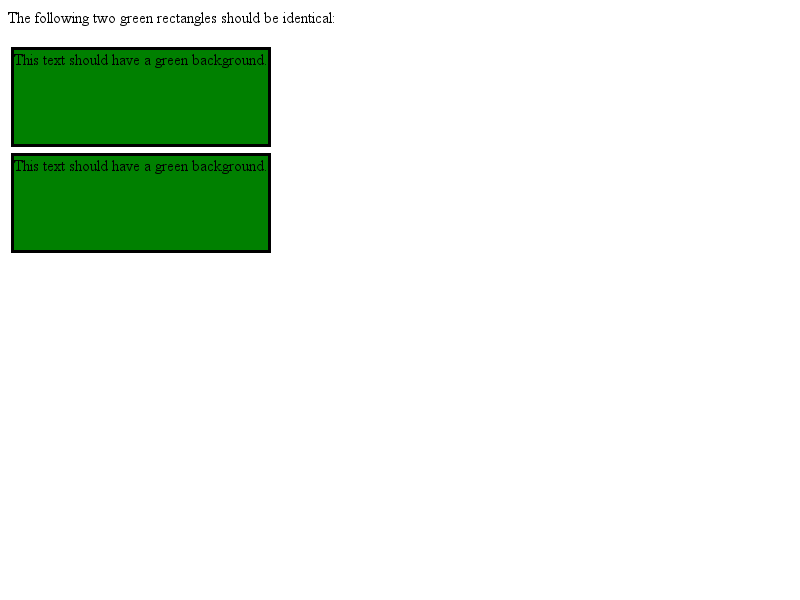
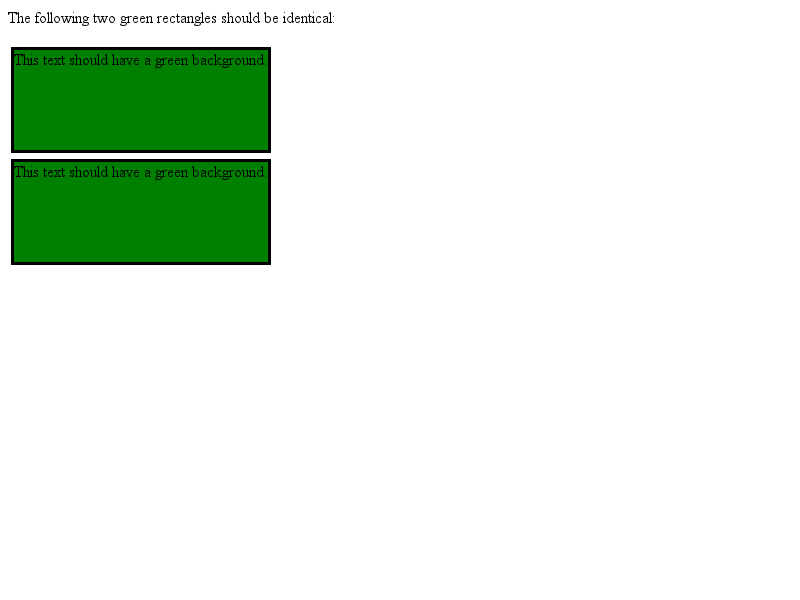
Calculate border-box dimensions correctly for cells
When constraining a height on a cell according to box sizing we need to exclude the intrinsic
padding on table cells (calculated to line up the content of the cells with the
baseline of its neighbours) but include any collapsed borders the cells have
picked up from the row/table.

BUG=627305

Review-Url: https://codereview.chromium.org/2148513002
Cr-Original-Commit-Position: refs/heads/master@{#406775}
Cr-Mirrored-From: https://chromium.googlesource.com/chromium/src
Cr-Mirrored-Commit: 1da432b8b1e60df27ed36d2a6439392d2048551e

Changed region(s): [[0.0, 0.24, 0.3438, 0.3], [0.0, 0.39, 0.3438, 0.45]]

diff --git a/WebKit/LayoutTests/fast/table/percent-height-content-in-fixed-height-border-box-sized-cell.html b/WebKit/LayoutTests/fast/table/percent-height-content-in-fixed-height-border-box-sized-cell.html
@@ -1,0 +1,24 @@
+<!DOCTYPE html>
+<style>
+td {
+    width: 50px;
+    height: 50px;
+    padding: 0px;
+    box-sizing: border-box;
+    border: 18px solid lightblue;
+}
+#div {
+    height: 100%;
+}
+</style>
+<table style="border-collapse:collapse" id="table" data-expected-height=68 data-expected-width=68>
+    <tr id="row">
+        <td><div id="div" style="background:black" data-expected-height=32 data-expected-width=32></div></td>
+    </tr>
+</table>
+<script src="../../resources/check-layout.js"></script>
+<p> crbug.com/627305: Percent height content in a border-box sized cell with border and a computed height should use the height of the cell. </p>
+<div id="output"></div>
+<script>
+checkLayout('#table', output);
+</script>

diff --git a/WebKit/LayoutTests/fast/table/percent-height-content-in-fixed-height-border-box-sized-cell-with-padding.html b/WebKit/LayoutTests/fast/table/percent-height-content-in-fixed-height-border-box-sized-cell-with-padding.html
@@ -1,0 +1,24 @@
+<!DOCTYPE html>
+<style>
+td {
+    width: 50px;
+    height: 50px;
+    padding: 9px;
+    box-sizing: border-box;
+    border: 9px solid lightblue;
+}
+#div {
+    height: 100%;
+}
+</style>
+<table style="border-collapse:collapse" id="table" data-expected-height=59 data-expected-width=59>
+    <tr id="row">
+        <td><div id="div" style="background:black" data-expected-height=23 data-expected-width=23></div></td>
+    </tr>
+</table>
+<script src="../../resources/check-layout.js"></script>
+<p> crbug.com/627305: Percent height content in a border-box sized cell with border and a computed height should use the height of the cell. </p>
+<div id="output"></div>
+<script>
+checkLayout('#table', output);
+</script>

diff --git a/WebKit/LayoutTests/fast/table/percent-height-content-in-fixed-height-border-box-sized-cell-with-collapsed-border.html b/WebKit/LayoutTests/fast/table/percent-height-content-in-fixed-height-border-box-sized-cell-with-collapsed-border.html
@@ -1,0 +1,23 @@
+<!DOCTYPE html>
+<style>
+td {
+    width: 50px;
+    height: 50px;
+    padding: 0px;
+    box-sizing: border-box;
+}
+#div {
+    height: 100%;
+}
+</style>
+<table style="border-collapse:collapse" id="table" data-expected-height=68 data-expected-width=68>
+    <tr style="border:18px solid lightblue" id="row">
+        <td><div id="div" style="background:black" data-expected-height=32 data-expected-width=32></div></td>
+    </tr>
+</table>
+<script src="../../resources/check-layout.js"></script>
+<p> crbug.com/627305: Percent height content in a border-box sized cell with a computed height should use the height of the cell. </p>
+<div id="output"></div>
+<script>
+checkLayout('#table', output);
+</script>

diff --git a/WebKit/LayoutTests/fast/table/percent-height-content-in-fixed-height-border-box-sized-cell-with-collapsed-border-on-table.html b/WebKit/LayoutTests/fast/table/percent-height-content-in-fixed-height-border-box-sized-cell-with-collapsed-border-on-table.html
@@ -1,0 +1,23 @@
+<!DOCTYPE html>
+<style>
+td {
+    width: 50px;
+    height: 50px;
+    padding: 0px;
+    box-sizing: border-box;
+}
+#div {
+    height: 100%;
+}
+</style>
+<table style="border-collapse:collapse; border: 18px solid lightblue;" id="table" data-expected-height=68 data-expected-width=68>
+    <tr id="row">
+        <td><div id="div" style="background:black" data-expected-height=32 data-expected-width=32></div></td>
+    </tr>
+</table>
+<script src="../../resources/check-layout.js"></script>
+<p> crbug.com/627305: Percent height content in a border-box sized cell with a computed height should use the height of the cell. </p>
+<div id="output"></div>
+<script>
+checkLayout('#table', output);
+</script>

diff --git a/WebKit/LayoutTests/fast/table/percent-height-content-in-fixed-height-content-box-sized-cell.html b/WebKit/LayoutTests/fast/table/percent-height-content-in-fixed-height-content-box-sized-cell.html
@@ -1,0 +1,22 @@
+<!DOCTYPE html>
+<style>
+td {
+    width: 50px;
+    height: 50px;
+    padding: 0px;
+}
+#div {
+    height: 100%;
+}
+</style>
+<table style="border-collapse:collapse" id="table" data-expected-height=86 data-expected-width=86>
+    <tr style="border:18px solid lightblue" id="row">
+        <td><div id="div" style="background:black" data-expected-height=50 data-expected-width=50></div></td>
+    </tr>
+</table>
+<script src="../../resources/check-layout.js"></script>
+<p> crbug.com/627305: Percent height content in a content-box sized cell with a computed height should use the height of the cell. </p>
+<div id="output"></div>
+<script>
+checkLayout('#table', output);
+</script>

diff --git a/WebKit/LayoutTests/fast/table/percent-height-content-in-fixed-height-cell.html b/WebKit/LayoutTests/fast/table/percent-height-content-in-fixed-height-cell.html
@@ -25,7 +25,7 @@ td {
 </style>
 <table>
     <td class="cell-specified-height">
-        <div class="container" data-expected-height=202>
+        <div class="container" data-expected-height=204>
             <div class="content"></div>
         </div>
     </td>

diff --git a/WebKit/Source/core/layout/LayoutBox.cpp b/WebKit/Source/core/layout/LayoutBox.cpp
@@ -1201,9 +1201,21 @@ void LayoutBox::clearExtraInlineAndBlockOffests()
         gExtraBlockOffsetMap->remove(this);
 }
 
+static LayoutUnit borderPaddingWidthForBoxSizing(const LayoutBox* box)
+{
+    // This excludes intrinsic padding on cells. It includes width from collapsed borders.
+    return box->computedCSSPaddingStart() + box->computedCSSPaddingEnd() + box->borderStart() + box->borderEnd();
+}
+
+static LayoutUnit borderPaddingHeightForBoxSizing(const LayoutBox* box)
+{
+    // This excludes intrinsic padding on cells. It includes height from collapsed borders.
+    return box->computedCSSPaddingBefore() + box->computedCSSPaddingAfter() + box->borderBefore() + box->borderAfter();
+}
+
 LayoutUnit LayoutBox::adjustBorderBoxLogicalWidthForBoxSizing(float width) const
 {
-    LayoutUnit bordersPlusPadding = borderAndPaddingLogicalWidth();
+    LayoutUnit bordersPlusPadding = borderPaddingWidthForBoxSizing(this);
     LayoutUnit result(width);
     if (style()->boxSizing() == BoxSizingContentBox)
         return result + bordersPlusPadding;
@@ -1212,7 +1224,7 @@ LayoutUnit LayoutBox::adjustBorderBoxLogicalWidthForBoxSizing(float width) const
 
 LayoutUnit LayoutBox::adjustBorderBoxLogicalHeightForBoxSizing(float height) const
 {
-    LayoutUnit bordersPlusPadding = borderAndPaddingLogicalHeight();
+    LayoutUnit bordersPlusPadding = borderPaddingHeightForBoxSizing(this);
     LayoutUnit result(height);
     if (style()->boxSizing() == BoxSizingContentBox)
         return result + bordersPlusPadding;
@@ -1223,7 +1235,7 @@ LayoutUnit LayoutBox::adjustContentBoxLogicalWidthForBoxSizing(float width) cons
 {
     LayoutUnit result(width);
     if (style()->boxSizing() == BoxSizingBorderBox)
-        result -= borderAndPaddingLogicalWidth();
+        result -= borderPaddingWidthForBoxSizing(this);
     return std::max(LayoutUnit(), result);
 }
 
@@ -1231,7 +1243,7 @@ LayoutUnit LayoutBox::adjustContentBoxLogicalHeightForBoxSizing(float height) co
 {
     LayoutUnit result(height);
     if (style()->boxSizing() == BoxSizingBorderBox)
-        result -= borderAndPaddingLogicalHeight();
+        result -= borderPaddingHeightForBoxSizing(this);
     return std::max(LayoutUnit(), result);
 }
 
@@ -2773,8 +2785,6 @@ LayoutUnit LayoutBox::computePercentageLogicalHeight(const Length& height) const
         LayoutUnit contentBoxHeight = cb->adjustContentBoxLogicalHeightForBoxSizing(cbstyle.logicalHeight().value());
         availableHeight = cb->constrainContentBoxLogicalHeightByMinMax(
             contentBoxHeight - cb->scrollbarLogicalHeight(), LayoutUnit(-1)).clampNegativeToZero();
-        if (cb->isTableCell())
-            includeBorderPadding = true;
     } else if (cb->isTableCell()) {
         if (!skippedAutoHeightContainingBlock) {
             // Table cells violate what the CSS spec says to do with heights. Basically we
